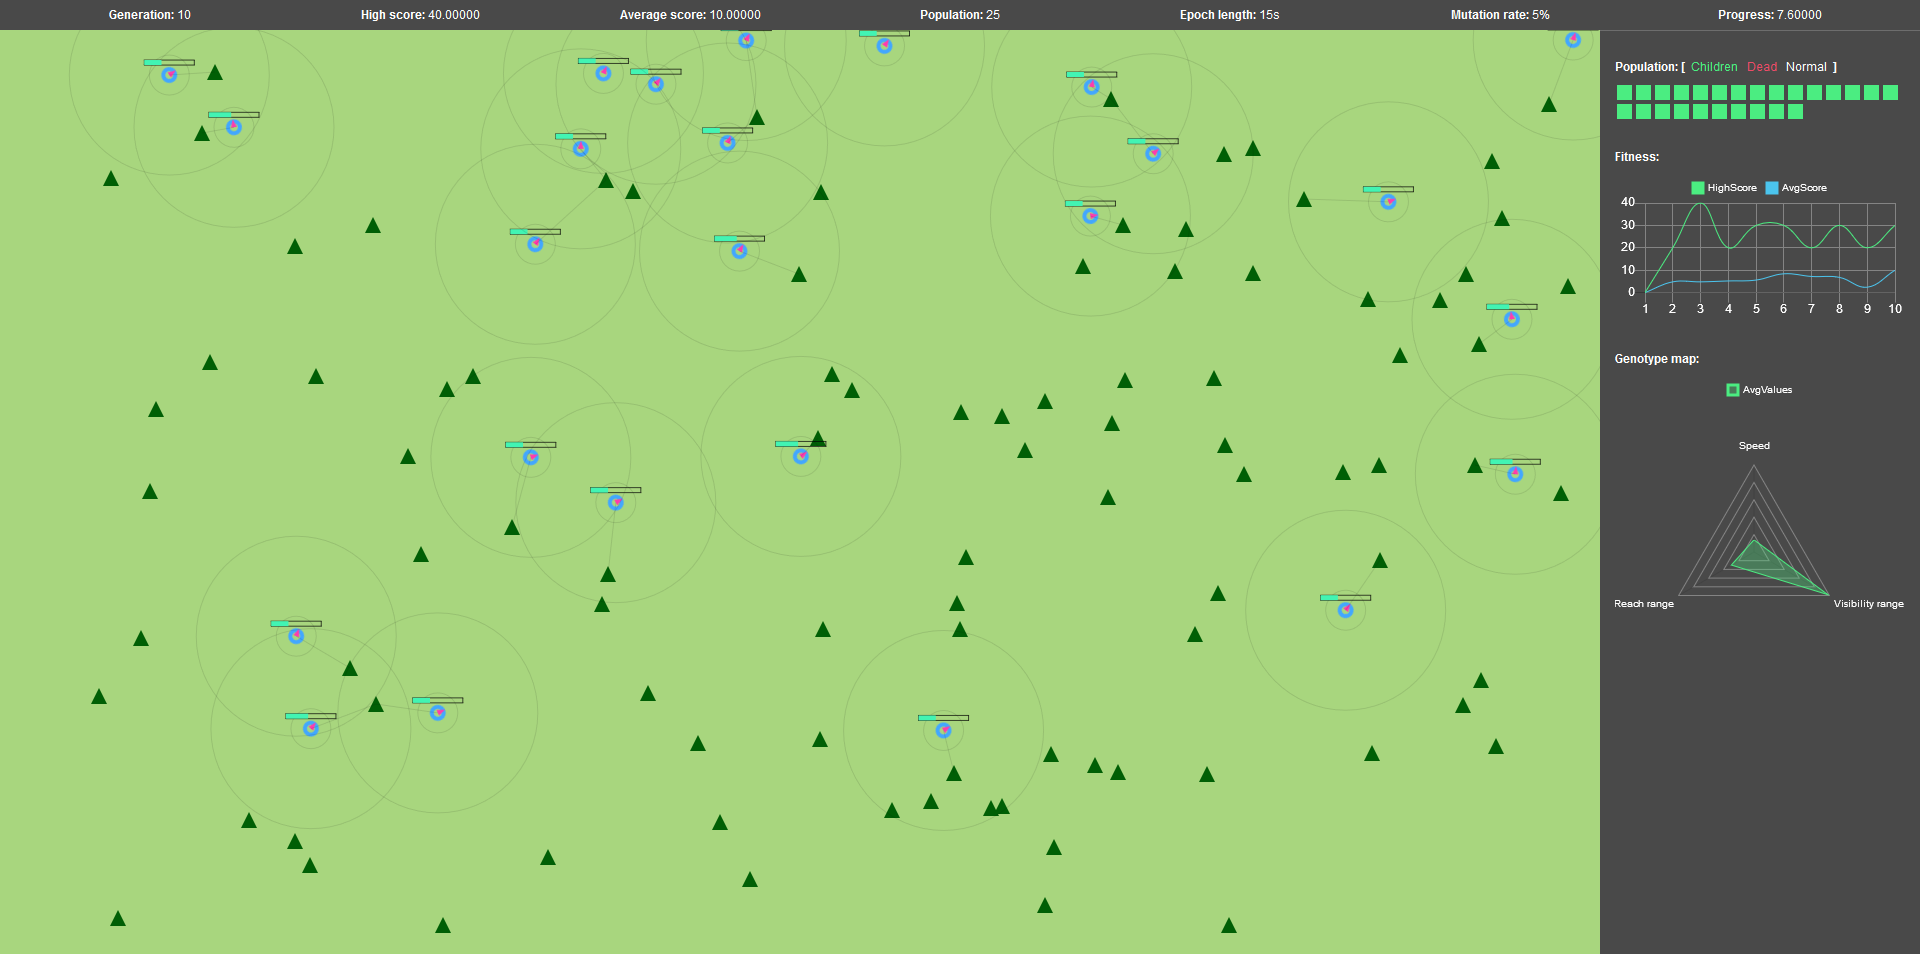
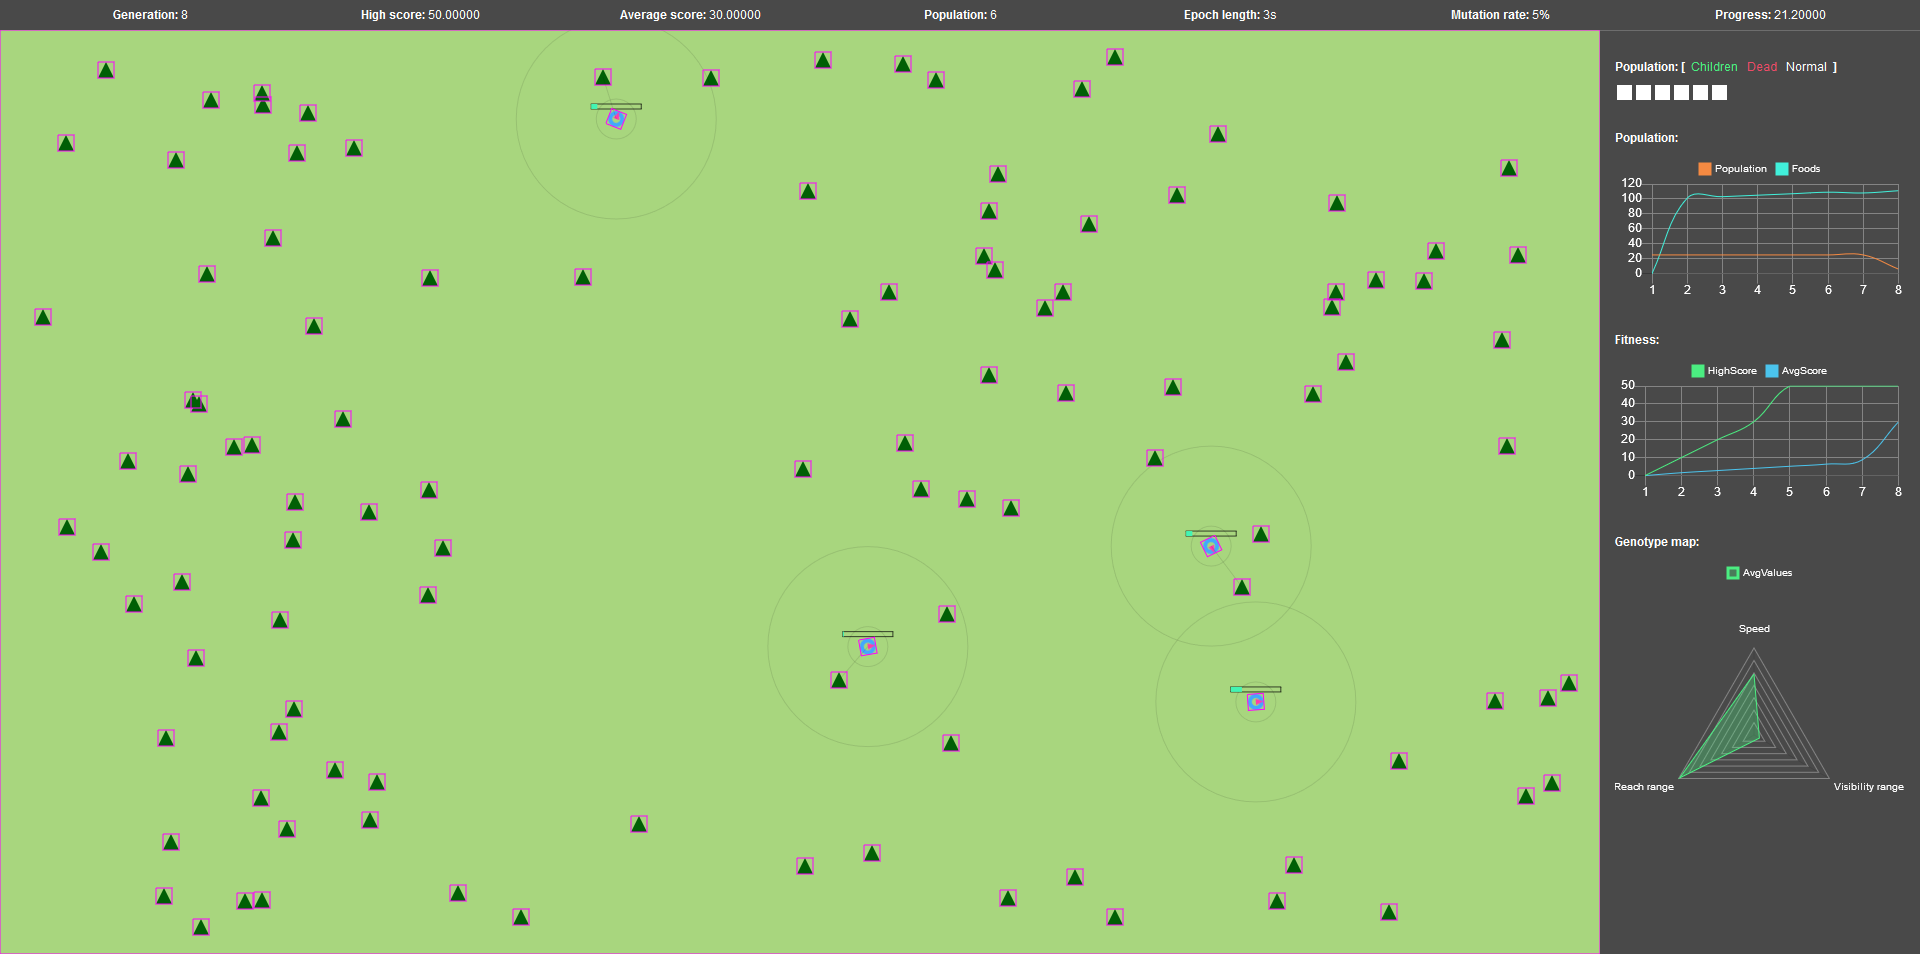
WIP: Enviroment lifecycle

diff --git a/src/js/Network/Generations/BunnyGeneration.js b/src/js/Network/Generations/BunnyGeneration.js
@@ -2,6 +2,7 @@ import { dispatchEvent } from '../../Helpers/EventsHelper';
 
 export default class BunnyGeneration {
   constructor(population, scene, tex) {
+    this.initialPopulation = population;
     this.population = population;
     this.species = [];
     this.generation = 1;
@@ -10,13 +11,14 @@ export default class BunnyGeneration {
     this.totalScore = 0;
     this.fitness = 0;
     this.progress = 0;
+    this.foodSources = 0;
     this.scene = scene;
     this.tex = tex;
   }
 
   init(BunnyModel) {
     for (let i = 0; i < this.population; i++) {
-      const newBunny = new BunnyModel(i, this.scene, this.tex);
+      const newBunny = new BunnyModel(i, this.scene, this.tex, this);
       this.species.push(newBunny);
     }
 
@@ -33,31 +35,35 @@ export default class BunnyGeneration {
     }
 
     index -= 1;
-
     const selected = this.species[index].clone();
     return selected;
   }
 
-  evolve() {
-    // Store High Score
+  calcGenerationHighScore() {
     this.generation += 1;
     const genHighscore = Math.max.apply(Math, this.species.map((creature) => creature.score));
     this.highScore = genHighscore > this.highScore ? genHighscore : this.highScore;
+    return genHighscore;
+  }
 
-    // Calculate Total Score of this Generation
+  calcTotalScore() {
     let totalScore = 0;
     this.species.forEach((creature) => {
       totalScore += creature.score;
     });
+    return totalScore;
+  }
 
-    // Assign Fitness to each creature
+  calcFitness() {
+    const totalScore = this.calcTotalScore();
     this.progress = totalScore / this.population - this.avgScore;
     this.avgScore = totalScore / this.population;
     for (let i = 0; i < this.population; i++) {
       this.species[i].fitness = this.species[i].score / totalScore;
     }
+  }
 
-    // Store new generation temporarily in this array
+  createNewGeneration() {
     const newGeneration = [];
 
     // Breeding
@@ -74,14 +80,20 @@ export default class BunnyGeneration {
       newGeneration.push(child);
     }
 
-    // Kill Current Generation.
-    for (let i = 0; i < this.population; i++) {
+    return newGeneration;
+  }
+
+  evolve() {
+    const genHighscore = this.calcGenerationHighScore();
+    this.calcFitness();
+    const newGeneration = this.createNewGeneration();
+
+    for (let i = 0; i < this.initialPopulation; i++) {
       this.species[i].kill();
     }
 
-    // Add new children to the current generation
     this.species = newGeneration;
-    for (let i = 0; i < this.population; i++) {
+    for (let i = 0; i < this.initialPopulation; i++) {
       this.species[i].resurrect();
     }
 
@@ -97,10 +109,29 @@ export default class BunnyGeneration {
       avgScore: this.avgScore.toFixed(5),
       population: this.population,
       progress: this.progress.toFixed(5),
+      sources: this.foodSources,
     });
   }
 
   dispatchPopulationChanges() {
     dispatchEvent('population-changes', { species: this.species });
+  }
+
+  remove(id) {
+    this.species[id].kill();
+    this.species.splice(id, 1);
+    this.refreshPopulation();
+  }
+
+  refreshPopulation() {
+    this.species.forEach((specie, index) => specie.setIndex(index));
+    this.population = this.species.length;
+  }
+
+  rateGeneration() {
+    const genHighscore = this.calcGenerationHighScore();
+    this.calcFitness();
+    this.dispatchCounters(genHighscore.toFixed(5));
+    this.dispatchPopulationChanges();
   }
 }

diff --git a/src/js/Game/Scenes/GameScene.js b/src/js/Game/Scenes/GameScene.js
@@ -10,7 +10,7 @@ export default class GameScene extends Phaser.Scene {
     super({ key: 'GameScene' });
     this.bunnyGeneration = null;
     this.foodSources = [];
-    this.epochLengthInSeconds = 15;
+    this.epochLengthInSeconds = 3;
     this.msInSec = 1000;
     this.epochLength = this.epochLengthInSeconds * this.msInSec;
     dispatchEvent('epoch-length', { epochLength: `${this.epochLengthInSeconds}s` });
@@ -29,14 +29,14 @@ export default class GameScene extends Phaser.Scene {
     this.matter.world.setBounds();
   }
 
-  createFoodSources(createGroup = false) {
+  createFoodSources(createGroup = false, count = 100) {
     if (createGroup) {
       this.data.foods = this.add.group();
     }
 
-    for (let i = 0; i < 100; i++) {
+    for (let i = 0; i < count; i++) {
       const source = new Food(this, 'food');
-      this.foodSources.push(source);
+      // this.foodSources.push(source);
       this.data.foods.add(source);
       this.add.existing(source);
     }
@@ -49,17 +49,21 @@ export default class GameScene extends Phaser.Scene {
 
   createBunniesGeneration() {
     this.bunnyGeneration.init(BunnyModel);
+    this.bunnyGeneration.foodSources = this.data.foods.children.entries.length;
     this.bunnyGeneration.species.forEach((bunny) => {
       this.add.existing(bunny.body);
     });
 
     setInterval(() => {
-      this.removeFoodSources();
-      this.createFoodSources();
-      this.bunnyGeneration.evolve();
-      this.bunnyGeneration.species.forEach((bunny) => {
-        this.add.existing(bunny.body);
-      });
+      if (!this.bunnyGeneration.species.length) return false;
+      // this.removeFoodSources();
+      this.createFoodSources(false, 5);
+      this.bunnyGeneration.foodSources = this.data.foods.children.entries.length;
+      this.bunnyGeneration.rateGeneration();
+      // this.bunnyGeneration.evolve();
+      // this.bunnyGeneration.species.forEach((bunny) => {
+      //   this.add.existing(bunny.body);
+      // });
     }, this.epochLength);
   }
 

diff --git a/src/js/Network/Models/BunnyModel.js b/src/js/Network/Models/BunnyModel.js
@@ -5,7 +5,7 @@ import { randomGaussian } from '../../Helpers/MathHelpers';
 import { dispatchEvent } from '../../Helpers/EventsHelper';
 
 export default class BunnyModel {
-  constructor(id, scene, tex) {
+  constructor(id, scene, tex, generation) {
     this.id = id;
     this.score = 0;
     this.fitness = 0;
@@ -19,6 +19,7 @@ export default class BunnyModel {
     this.alive = true;
     this.brain = new BunnyBrain(this.inputLayers, this.hiddenLayers, this.outputLayers);
     this.body = new Bunny(scene, tex, this);
+    this.generation = generation;
 
     dispatchEvent('mutation-rate', { mutationRate: `${this.mutationRate * 100}%` });
   }
@@ -34,7 +35,7 @@ export default class BunnyModel {
   }
 
   clone() {
-    const clone = new BunnyModel(this.id, this.scene, this.tex);
+    const clone = new BunnyModel(this.id, this.scene, this.tex, this.generation);
     clone.brain.dispose();
     clone.body.killBunny();
     clone.brain = this.brain.clone();
@@ -105,5 +106,28 @@ export default class BunnyModel {
 
   update() {
     this.body.update();
+  }
+
+  die() {
+    this.generation.remove(this.id);
+  }
+
+  setIndex(index) {
+    this.id = index;
+  }
+
+  reproduce() {
+    this.generation.calcFitness();
+    const partner = this.generation.pickOne();
+    const child = this.crossover(partner);
+    child.mutate();
+    child.id = this.generation.species.length + 1;
+    child.parents = [{ id: this.id, score: this.score }, { id: partner.id, score: partner.score }];
+    child.resurrect();
+    child.body.energy = 50;
+    this.body.energy -= 30;
+    this.generation.species.push(child);
+    this.generation.refreshPopulation();
+    this.scene.add.existing(child.body);
   }
 }

diff --git a/src/js/Ui/PopulationChart.js b/src/js/Ui/PopulationChart.js
@@ -1,0 +1,72 @@
+import Chart from 'chart.js';
+
+export default class PopulationChart {
+  constructor() {
+    if (!this.vars()) return false;
+    this.setupEvents();
+  }
+
+  vars() {
+    this.canvas = document.getElementById('sidebar__population');
+
+    if (!this.canvas) return false;
+
+    this.canvas.height = 150;
+
+    this.config = {
+      type: 'line',
+      data: {
+        labels: [],
+        datasets: [
+          {
+            label: 'Population',
+            backgroundColor: '#f58a42',
+            borderColor: '#f58a42',
+            data: [],
+            fill: false,
+          },
+          {
+            label: 'Foods',
+            backgroundColor: '#41f0db',
+            borderColor: '#41f0db',
+            data: [],
+            fill: false,
+          },
+        ],
+      },
+      options: {
+        legend: {
+          labels: {
+            fontSize: 10,
+            boxWidth: 10,
+          },
+        },
+        elements: {
+          point: {
+            radius: 0,
+          },
+          line: {
+            borderWidth: 1,
+          },
+        },
+      },
+    };
+
+    Chart.defaults.global.defaultFontColor = '#fff';
+    Chart.defaults.scale.gridLines.color = '#848484';
+    this.chart = new Chart(this.canvas.getContext('2d'), this.config);
+    return true;
+  }
+
+  setupEvents() {
+    window.addEventListener('tob-bar-stats', (e) => this.addGeneration(e));
+  }
+
+  addGeneration(e) {
+    const { labels, datasets } = this.config.data;
+    labels.push(e.detail.generation);
+    datasets[0].data.push(e.detail.population);
+    datasets[1].data.push(e.detail.sources);
+    this.chart.update();
+  }
+}

diff --git a/src/js/Game/Creatures/Bunny.js b/src/js/Game/Creatures/Bunny.js
@@ -61,6 +61,12 @@ export default class Bunny extends Phaser.Physics.Matter.Sprite {
     }
 
     this.clearDebugGraphics(true);
+
+    if (this.energy <= 0) {
+      this.die();
+    } else if (this.energy >= 70) {
+      this.reproduce();
+    }
   }
 
   move(motorA, motorB) {
@@ -156,5 +162,13 @@ export default class Bunny extends Phaser.Physics.Matter.Sprite {
   killBunny() {
     this.clearDebugGraphics();
     this.destroy();
+  }
+
+  die() {
+    this.model.die();
+  }
+
+  reproduce() {
+    this.model.reproduce();
   }
 }

diff --git a/src/js/Ui/Ui.js b/src/js/Ui/Ui.js
@@ -1,3 +1,4 @@
+import PopulationChart from './PopulationChart';
 import FitnessChart from './FitnessChart';
 import GenotypeMapChart from './GenotypeMapChart';
 
@@ -48,6 +49,7 @@ export default class Ui {
     this.liPrefab = document.createElement('li');
     this.liPrefab.classList.add('sidebar__pop');
 
+    this.populationChart = new PopulationChart();
     this.fitnessChart = new FitnessChart();
     this.genotypeMapChart = new GenotypeMapChart();
 

diff --git a/components/sidebar.php b/components/sidebar.php
@@ -13,6 +13,13 @@
 
   <div class="sidebar__row">
     <div class="sidebar__header">
+      Population:
+    </div>
+    <canvas id="sidebar__population" class="sidebar__canvas"></canvas>
+  </div>
+
+  <div class="sidebar__row">
+    <div class="sidebar__header">
       Fitness:
     </div>
     <canvas id="sidebar__fitness" class="sidebar__canvas"></canvas>

diff --git a/README.md b/README.md
@@ -16,7 +16,6 @@ But hey, here's the screenshot!
 
 ## Goals for now
 
-- [ ] Create creature lifecycle. Remove fixed generation length, make bunnies die and reproduce.
 - [ ] Add custom genome with properties like speed, visibility distance etc.
 - [ ] Create more variety in enviroment (dangers, hostile animals etc)
 - [ ] Make save/load network and genome state
@@ -26,16 +25,17 @@ But hey, here's the screenshot!
 - [x] Working neural network that learns to gather food
 - [x] Genetic algorithm that evolves network by generations
 - [x] Rendering and physics
+- [x] Create creature lifecycle. Remove fixed generation length, make bunnies die and reproduce.
 
-## Possible bugs
+## Known issues
 
-- [x] Fixed: Whole game slows down to almost 0 speed around 100 generations. Check if that's physics bodies cleaning issues or network decision
+- [ ] Population is really unstable at it's early stage
 
 ## Enviroment lifecycle
 
 Still in progress but that's target features for this branch now.
 
-- 100 food sources is created
+- 200 food sources is created
 - 25 bunnies is born each with `50/100` energy
   - The 'living' cost is `0.001` energy per tick
   - Movement cost is `0.1` energy per tick
@@ -43,7 +43,7 @@ Still in progress but that's target features for this branch now.
   - Body creates `1` food source
 - When bunny eat food it gets `10` energy
 - When bunny energy reach `70/100` it is in reproduction age
-- Reproduction cost is `50` energy that is passed to the new bunny
+- Reproduction cost is `30` energy that is passed to the new bunny
 - In each epoch `5` foods grow up
 - Bunnies dies after `n` ticks (aging)
 - When bunnies population reach `0` simulation will reset
